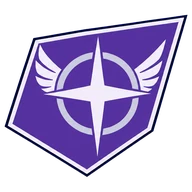
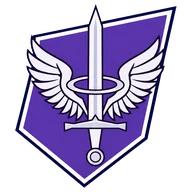
Swap in Aurora's redone emblem and match its sigil to it
The sword stands point up with a tipped halo round the blade above the
crossguard and wings rising behind; the mechs' sigil now sits the same way.

Claude-Session: https://claude.ai/code/session_01SRYu9jH5hsHdBaNMVPBWoP

diff --git a/src/client/render/mech/aurora/motifs.ts b/src/client/render/mech/aurora/motifs.ts
@@ -4,6 +4,7 @@
 // kit, in the space of the part it is building.
 import type { Kit } from '../kit';
 import { arc } from '../parts';
+import { hoop } from '../shapes';
 
 export { cuirass, curvedPlate, lame, sweep } from '../shapes';
 
@@ -11,39 +12,28 @@ type P3 = [number, number, number];
 
 /** A halo: a silver ring `r` across, its inner edge lit, facing +z until turned by `rot`. */
 export function halo(k: Kit, r: number, at: P3, rot: P3 = [0, 0, 0], w = 0.08, d = 0.07): void {
-  const ring = (rr: number, ww: number, dd: number): P3[][] => {
-    const rings: P3[][] = [];
-    const n = 32;
-    for (let i = 0; i <= n; i++) {
-      const a = (i / n) * Math.PI * 2;
-      const c = Math.cos(a);
-      const s = Math.sin(a);
-      const lo = rr - ww / 2;
-      const hi = rr + ww / 2;
-      rings.push([[c * lo, s * lo, -dd / 2], [c * hi, s * hi, -dd / 2], [c * hi, s * hi, dd / 2], [c * lo, s * lo, dd / 2]]);
-    }
-    return rings;
-  };
-  k.loft('T', ring(r, w, d), { at, rot });
-  k.loft('G', ring(r - w / 2 - 0.012, 0.03, d * 0.7), { at, rot });
+  hoop(k, 'T', r, at, rot, w, d);
+  hoop(k, 'G', r - w / 2 - 0.012, at, rot, 0.03, d * 0.7);
 }
 
 /**
  * Aurora's sigil, as on its emblem: an upright sword, point up, a halo round
- * it where the blade meets the crossguard and swept wings behind. `R` from the
- * crossing to the point; facing +z until turned by `rot`; `depth` thick.
+ * the blade a little above the crossguard, seen tipped like a ring, and swept
+ * wings rising behind it. `R` from the crossguard to the point; facing +z
+ * until turned by `rot`; `depth` thick.
  */
 export function sigil(k: Kit, R: number, at: P3, rot: P3 = [0, 0, 0], depth = 0.06): void {
   // Each part a plate, thicker the nearer the front it stands.
   const put = (slot: 'S' | 'T' | 'G', pts: Array<[number, number]>, d: number) => k.plate(slot, pts.map(([x, y]) => [x * R, y * R] as [number, number]), depth * d, { at, rot });
   for (const s of [1, -1]) {
-    const wing: Array<[number, number]> = [[0.12, -0.02], [0.55, 0.28], [0.8, 0.62], [0.5, 0.3], [0.28, 0.16], [0.42, 0.42], [0.18, 0.12]];
+    const wing: Array<[number, number]> = [[0.12, 0.14], [0.55, 0.46], [0.8, 0.82], [0.5, 0.5], [0.28, 0.34], [0.42, 0.62], [0.18, 0.3]];
     put('S', s === 1 ? wing : wing.map(([x, y]) => [-x, y] as [number, number]).reverse(), 0.6);
   }
   put('S', [[-0.1, -0.04], [0.1, -0.04], [0.1, 0.74], [0, 1], [-0.1, 0.74]], 1);
   put('G', [[-0.025, 0.06], [0.025, 0.06], [0.025, 0.7], [-0.025, 0.7]], 1.08);
-  put('T', arc(0.28, 0.35, 0, Math.PI, 0, -0.07), 1.12);
-  put('T', arc(0.28, 0.35, Math.PI, Math.PI * 2, 0, -0.07), 1.12);
+  const ring = (a0: number, a1: number) => arc(0.26, 0.34, a0, a1, 0, 0).map(([x, y]) => [x, 0.24 + y * 0.42] as [number, number]);
+  put('T', ring(0, Math.PI), 1.12);
+  put('T', ring(Math.PI, Math.PI * 2), 1.12);
   put('T', [[-0.44, -0.13], [0.44, -0.13], [0.4, -0.02], [-0.4, -0.02]], 1.2);
   put('T', [[-0.05, -0.13], [0.05, -0.13], [0.05, -0.42], [-0.05, -0.42]], 1.1);
   put('T', [[0, -0.42], [0.09, -0.48], [0.09, -0.56], [0, -0.62], [-0.09, -0.56], [-0.09, -0.48]], 1.2);

diff --git a/art/faction-sheets/README.md b/art/faction-sheets/README.md
@@ -11,8 +11,8 @@ and checked one sheet at a time, like the other sheets in `art/`.
 | F2 Emblems and lettering | The two emblems and the two teams' names as painted on their hangar walls, on green, 2x2 | The score panel, the standings, the results, the garage, the mechs' markings and the hangar's back wall; the name on the hangar walls |
 
 All of it is in the game. F2's two emblems were redone (F2b): Mirage's so
-its symbols sit on the slanted shield's middle (done), Aurora's so it is
-nothing like Vanta's (to come). The build takes each redo, on its own sheet,
+its symbols sit on the slanted shield's middle, Aurora's so it is nothing
+like Vanta's. The build takes each redo, on its own sheet,
 in place of F2's when the file is there; the prompt below asks for both on
 one sheet, but either can come on its own.
 
@@ -31,7 +31,7 @@ What to attach:
 | F1 Pilots | faction-f1-pilots.png | in the game (cut by `tools/bg/build_hud.py`). Aurora's genders changed from the prompt: the forward (renamed Orion from Iris) and Bastion are men, Vesper a woman |
 | F2 Emblems and lettering | faction-f2-emblems.png | in the game (emblems cut by `tools/bg/build_hud.py`, names by `tools/bg/build_hangar.py`). Its emblems are to be redone (F2b): Mirage's sits off-centre in its slanted shield, and Aurora's star in a ring is too close to Vanta's |
 | F2b Mirage emblem, redone | faction-f2b-mirage-emblem.png | in the game, in place of F2's |
-| F2b Aurora emblem, redone | faction-f2b-aurora-emblem.png | to make; replaces F2's when it is there |
+| F2b Aurora emblem, redone | faction-f2b-aurora-emblem.png | in the game, in place of F2's |
 | T1 Tempest | faction-t1-tempest.png | to make. Tempest's art is green, so this sheet is keyed on magenta |
 
 ## The prompt

diff --git a/docs/FACTIONS.md b/docs/FACTIONS.md
@@ -97,5 +97,5 @@ out so they don't.
 | Solstice | in the game | painted | painted | painted |
 | Vanta | in the game, first pass (`render/mech/vanta/`) | painted | painted | painted |
 | Mirage | in the game (`render/mech/mirage/`) | painted | painted | painted |
-| Aurora | in the game (`render/mech/aurora/`) | painted (a redo, a sword through a halo, is coming) | painted | painted |
+| Aurora | in the game (`render/mech/aurora/`) | painted | painted | painted |
 | Tempest | Solstice's for now | stand-in | stand-in | drawn |
